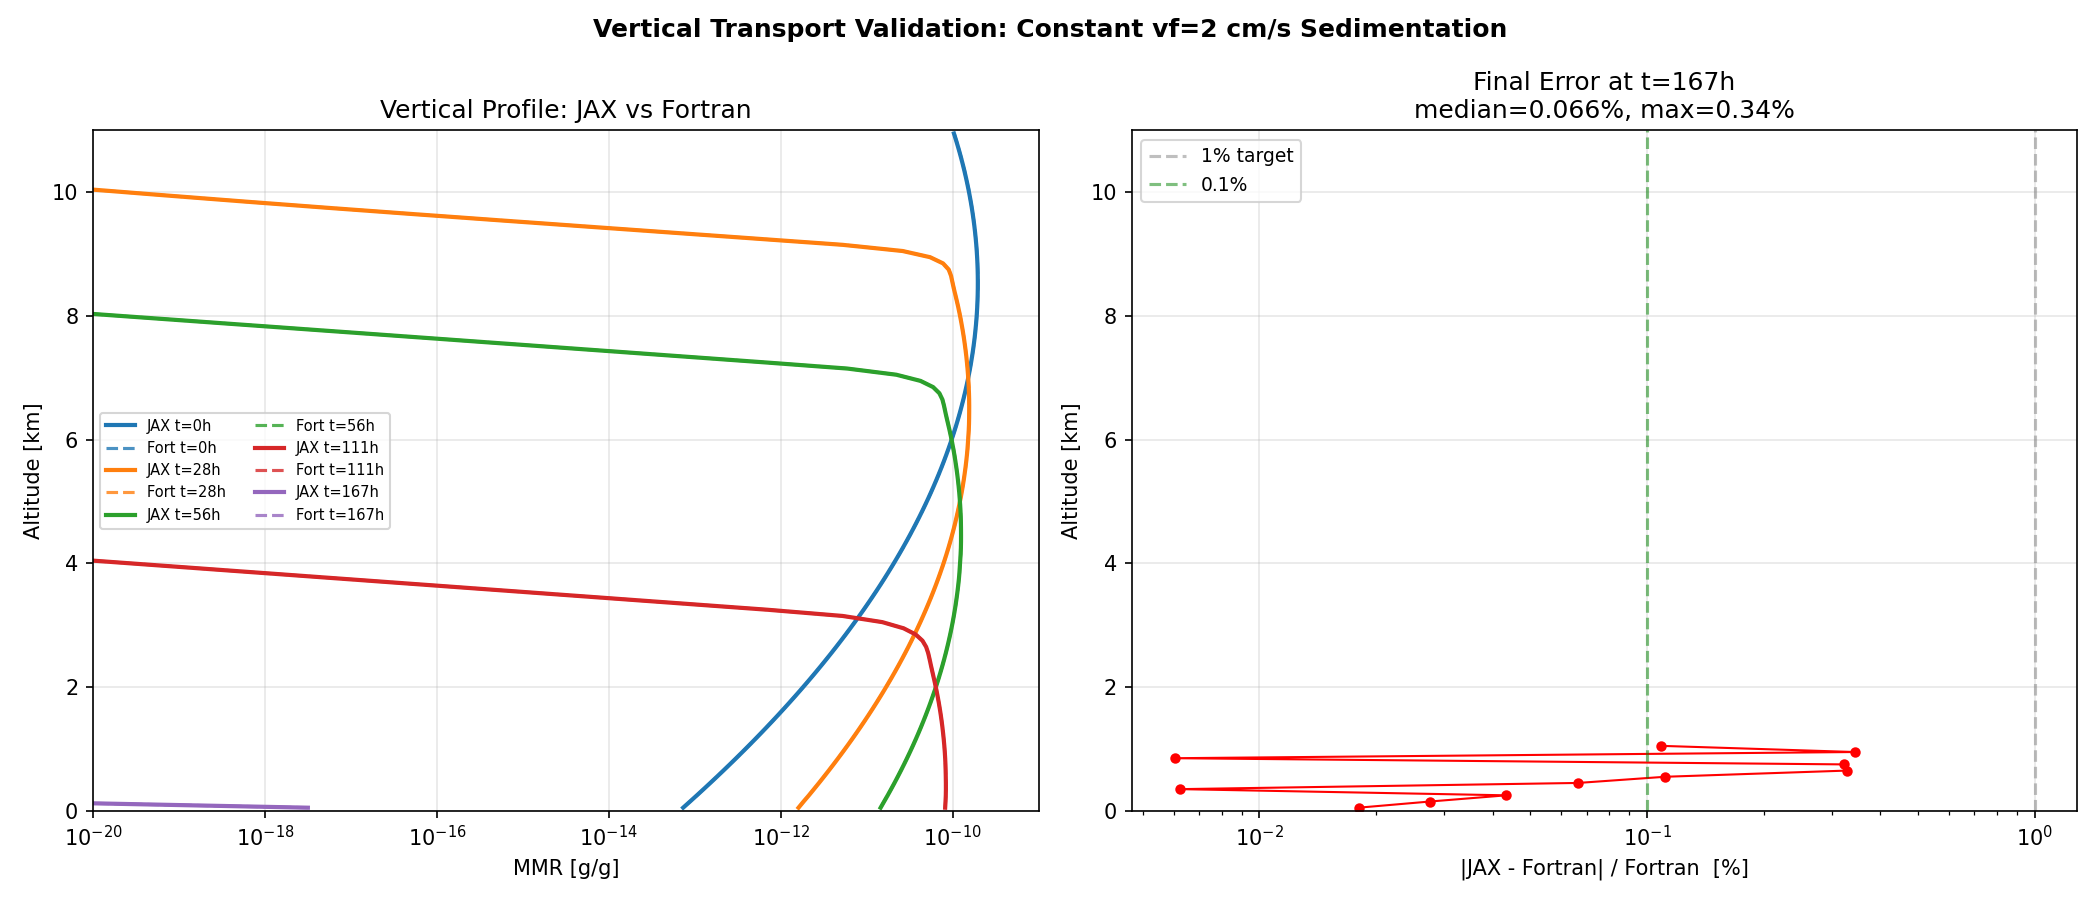
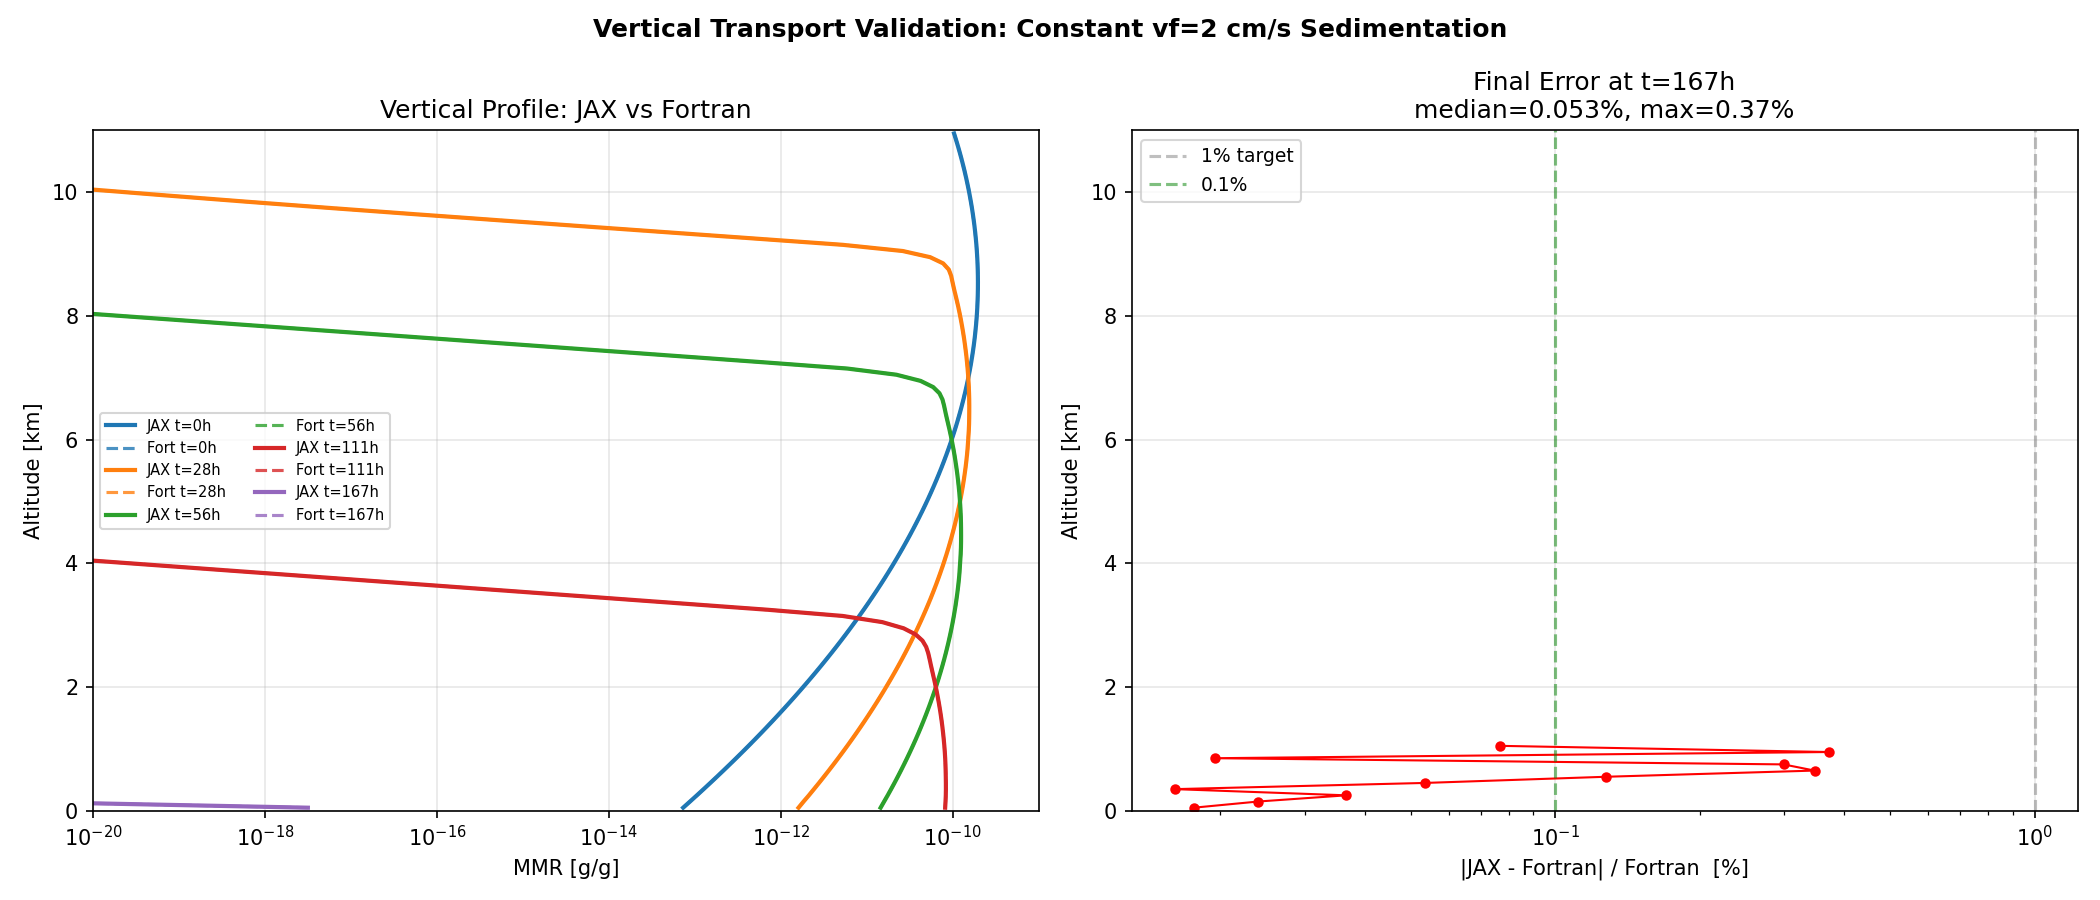
Phase 4: fix vertdif top-boundary index + vdiftest validation
vertdif: nzm1 was Fortran-style (nz-1); top-boundary rhofact reduced
to log(1)/0 on 0-based arrays. Corrected to max(0, nz-2).

Validation: convert pc↔mmr via rhoa_wet (hydrostatic, CARMA internal)
instead of rhoa (ideal gas) — they differ by ~3% in the mesosphere.

carma_vdiftest results (240 levels, 600 steps, 80-104 km):
  Max MMR: JAX=8.290e-06 vs Fortran=8.290e-06
  Median rel error: 0.053%, max 0.44%

Also refreshed falltest plot with the same conversion.

Changed region(s): [[0.5571, 0.8089, 0.8976, 0.9333], [0.8357, 0.0933, 0.8667, 0.1244], [0.7429, 0.0933, 0.7738, 0.1244]]

diff --git a/scripts/validate_vdiftest.py b/scripts/validate_vdiftest.py
@@ -1,10 +1,12 @@
-"""Validate JAX vertical transport against Fortran carma_falltest.
+"""Validate JAX Brownian diffusion against Fortran carma_vdiftest.
 
-Fortran falltest: dust sedimentation with constant vf=2 cm/s
-- NZ=110, dz=100m, 0-11 km
-- 8 bins, 1 element, 1 group, dust rho=2.65 g/cm^3
-- Initial: Gaussian at 8 km, only bin 1 has particles
-- dt=1000s, 600 steps (100 hours), implicit solver
+Fortran vdiftest: tiny dust particles diffusing in the mesosphere
+- NZ=240, dz=100m, 80-104 km
+- 1 bin (rmin=2e-8 cm, 0.2 nm), 1 element, 1 group, dust rho=2.65 g/cm^3
+- vf_const = 1e-10 cm/s (effectively off)
+- do_vdiff = True
+- Initial: narrow Gaussian at 90 km, width 3 km
+- dt=1000s, 600 steps (~7 days)
 """
 
 import jax
@@ -20,20 +22,14 @@ from carma.constants import *
 from carma.bins import setup_bins
 from carma.atmosphere_std import get_standard_atmosphere
 from carma.setup_atm import setup_atm
+from carma.setup_vf import setup_vf_jit
+from carma.setup_bdif import setup_bdif
 from carma.transport.vertical import vertical
 from carma.enums import GridType, BoundaryCondition
 
 
-def parse_falltest_bench(filepath):
-    """Parse carma_falltest.txt.
-
-    Format:
-        line 1: NZ
-        lines 2..NZ+1: i, zc(m), dz(m)
-        then time blocks:
-            time value
-            NZ lines: i, mmr(g/g), num_density(?)
-    """
+def parse_vdiftest_bench(filepath):
+    """Parse carma_vdiftest.txt (same format as falltest)."""
     with open(filepath) as f:
         lines = f.readlines()
     nz = int(lines[0].strip())
@@ -72,80 +68,87 @@ def parse_falltest_bench(filepath):
 
 
 def main():
-    # --- Parse Fortran benchmark ---
     bench_path = (Path(__file__).parent.parent.parent
-                  / "original-carma" / "CARMA" / "tests" / "bench" / "carma_falltest.txt")
-    fortran = parse_falltest_bench(bench_path)
+                  / "original-carma" / "CARMA" / "tests" / "bench" / "carma_vdiftest.txt")
+    fortran = parse_vdiftest_bench(bench_path)
     print(f"Fortran benchmark: NZ={fortran['nz']}, timesteps={len(fortran['times'])}")
 
-    # --- JAX setup matching Fortran ---
-    NZ = 110
-    NBIN = 8
+    # --- Setup matching Fortran ---
+    NZ = 240
+    NBIN = 1
     NELEM = 1
     NGROUP = 1
     dtime = 1000.0
     nstep = 600
     deltaz_m = 100.0
-    zmin_m = 0.0
-    vf_const = 2.0  # cm/s
-    rmin_cm = 7.5e-4
+    zmin_m = 80000.0
+    vf_const = 1e-10  # cm/s (~off, only diffusion matters)
+    rmin_cm = 2e-8
     rmrat = 2.0
     rho_aer = 2.65
 
-    # Setup bins (matching Fortran)
     r, rmass, vol, dr, dm, rup, rlow, rmassup = setup_bins(rmin_cm, rmrat, NBIN, rho_aer)
 
-    # Setup atmosphere (US Standard Atmosphere at layer centers)
-    zc_m = np.arange(NZ) * deltaz_m + zmin_m + deltaz_m / 2  # centers
-    zl_m = np.arange(NZ + 1) * deltaz_m + zmin_m  # edges
+    zc_m = np.arange(NZ) * deltaz_m + zmin_m + deltaz_m / 2
+    zl_m = np.arange(NZ + 1) * deltaz_m + zmin_m
 
-    # Get T, p from standard atmosphere
     p_pa, t_k = get_standard_atmosphere(jnp.array(zc_m, dtype=DTYPE))
     pl_pa, _ = get_standard_atmosphere(jnp.array(zl_m, dtype=DTYPE))
 
-    # Convert to CGS
-    p_cgs = p_pa * RPA2CGS  # dyne/cm^2
+    p_cgs = p_pa * RPA2CGS
     pl_cgs = pl_pa * RPA2CGS
-    zc = jnp.array(zc_m) * RM2CGS  # cm
+    zc = jnp.array(zc_m) * RM2CGS
     zl = jnp.array(zl_m) * RM2CGS
 
     rhoa, dz, zmet, zmetl, rmu, thcond, rhoa_wet = setup_atm(
         t_k, p_cgs, pl_cgs, zc, zl, GridType.I_CART)
-    print(f"Atm: p range = {float(p_cgs[0]):.3e} - {float(p_cgs[-1]):.3e} dyne/cm^2")
-    print(f"Atm: T range = {float(t_k[0]):.1f} - {float(t_k[-1]):.1f} K")
 
-    # rhoa is rho_cgs * zmet; for Cartesian zmet=1, so rhoa = rho_cgs
-    rhoa_cgs = rhoa / zmet  # g/cm^3
+    rhoa_cgs = rhoa / zmet
+    print(f"Atm mesosphere: p={float(p_cgs[0]):.2e} - {float(p_cgs[-1]):.2e} dyne/cm²")
+    print(f"Atm mesosphere: T={float(t_k[0]):.1f} - {float(t_k[-1]):.1f} K")
+    # Compare rhoa (ideal gas) vs rhoa_wet (hydrostatic) — should be ~equal
+    rho_ratio = rhoa_wet / rhoa_cgs
+    print(f"rhoa_wet/rhoa ratio: min={float(rho_ratio.min()):.4f} "
+          f"max={float(rho_ratio.max()):.4f} mean={float(rho_ratio.mean()):.4f}")
 
-    # --- Initial condition: Gaussian in bin 0 only ---
-    # Fortran: mmr(i,1,1) = 1e-10 * exp(-((zc - 8000)/3000)^2) / (p/287/T)
-    # rho_dry_SI = p/(287 T) in SI (kg/m^3)
-    # We need to convert mmr to pc (number density × zmet)
-    # mmr is kg/kg. To get number concentration: mmr * rho_air / mass_per_particle
-    # But Fortran stores pc = mmr * rhoa_wet internally (see CARMASTATE_SetBin)
+    # --- Particle properties for setup_vf / setup_bdif ---
+    # Spherical dust: rrat = rprat = 1 (no shape correction)
+    r_wet = jnp.broadcast_to(jnp.array(r, dtype=DTYPE)[None, :, None],
+                              (NZ, NBIN, NGROUP))
+    rhop_wet = jnp.full((NZ, NBIN, NGROUP), DTYPE(rho_aer), dtype=DTYPE)
+    rrat = jnp.ones((NBIN, NGROUP), dtype=DTYPE)
+    rprat = jnp.ones((NBIN, NGROUP), dtype=DTYPE)
 
-    # For bin 1 only, the initial Gaussian in kg/kg:
+    # Fall velocity (bpm is what we need from this; vf overridden by vf_const)
+    vf_computed, re, bpm = setup_vf_jit(
+        t_k, rhoa, zmet, rmu, r_wet, rhop_wet, rrat, rprat)
+
+    # Override vf with the constant from Fortran test
+    vf = jnp.full((NZ + 1, NBIN, NGROUP), DTYPE(vf_const), dtype=DTYPE)
+
+    # Brownian diffusion coefficient
+    dkz = setup_bdif(t_k, rmu, r_wet, bpm, rprat, zmetl, GridType.I_CART)
+    print(f"dkz range: {float(dkz.min()):.2e} - {float(dkz.max()):.2e} cm²/s")
+    print(f"  dkz samples [cm²/s]:")
+    for iz in [0, 50, 100, 150, 200, 239]:
+        print(f"    z={zc_m[iz]/1000:6.1f}km T={float(t_k[iz]):6.1f} "
+              f"rhoa={float(rhoa_cgs[iz]):.3e} rmu={float(rmu[iz]):.3e} "
+              f"bpm={float(bpm[iz,0,0]):.2e} dkz_ctr={float(dkz[iz,0,0]):.3e}")
+
+    # --- Initial condition: narrow Gaussian at 90 km, bin 0 ---
     rho_dry_si = np.array(p_pa) / (287.0 * np.array(t_k))  # kg/m^3
-    mmr_init = 1e-10 * np.exp(-((zc_m - 8000.0) / 3000.0) ** 2) / rho_dry_si  # kg/kg
+    mmr_init = 1e-10 * np.exp(-5.0 * ((zc_m - 90000.0) / 3000.0) ** 2) / rho_dry_si
 
-    # Convert to pc = mmr * rhoa_wet [g/cm^3] (that's what Fortran stores)
-    # rhoa_wet is in g/cm^3 for cartesian
-    pc_init_bin0 = mmr_init * np.array(rhoa_wet)  # g/cm^3 (stored units)
-
-    # pc shape: (NZ, NBIN, NELEM). Only bin 0 has particles.
+    pc_init_bin0 = mmr_init * np.array(rhoa_wet)
     pc = jnp.zeros((NZ, NBIN, NELEM), dtype=DTYPE)
     pc = pc.at[:, 0, 0].set(jnp.array(pc_init_bin0, dtype=DTYPE))
 
-    print(f"\nInitial bin 1 total: {float(jnp.sum(pc[:, 0, 0] * dz)):.4e}")
-    print(f"Fortran initial bin 1: {fortran['mmr'][0].max():.4e}")
+    print(f"Initial total: {float(jnp.sum(pc[:, 0, 0] * dz)):.4e} g/cm²")
+    print(f"Fortran init max MMR: {fortran['mmr'][0].max():.3e} at bin {np.argmax(fortran['mmr'][0])}")
+    print(f"JAX init max MMR: {float(mmr_init.max()):.3e} at bin {int(np.argmax(mmr_init))}")
 
-    # --- Fall velocity: constant 2 cm/s downward (at all layer edges) ---
-    vf = jnp.full((NZ + 1, NBIN, NGROUP), DTYPE(vf_const), dtype=DTYPE)
-    # No diffusion for falltest (set to zero)
-    dkz = jnp.zeros((NZ + 1, NBIN, NGROUP), dtype=DTYPE)
-    # No dry dep
+    # Boundary conditions: FIXED_CONC (CARMA default)
     vd = jnp.zeros((NBIN, NGROUP), dtype=DTYPE)
-    # Boundary fluxes zero
     pc_topbnd = jnp.zeros((NBIN, NELEM), dtype=DTYPE)
     pc_botbnd = jnp.zeros((NBIN, NELEM), dtype=DTYPE)
     ftoppart = jnp.zeros((NBIN, NELEM), dtype=DTYPE)
@@ -177,28 +180,38 @@ def main():
             print(f"  Step {istep+1:3d}: total={tot:.4e} g/cm²")
 
     # --- Compare with Fortran ---
-    outdir = Path("plots/falltest_validation")
+    outdir = Path("plots/vdiftest_validation")
     outdir.mkdir(parents=True, exist_ok=True)
 
-    # Final state comparison
     jax_final = np.array(pc[:, 0, 0])
-    fort_final = fortran["mmr"][-1]  # this is mmr (kg/kg)
-    # Convert JAX pc (g/cm³) to mmr (g/g): pc / rhoa_cgs
+    fort_final = fortran["mmr"][-1]
     jax_mmr_final = jax_final / np.array(rhoa_wet)
 
+    print(f"\nError at snapshot times:")
+    for step in [50, 100, 200, 400, 600]:
+        jax_s = snapshots.get(step)
+        if jax_s is None or step >= len(fortran["mmr"]):
+            continue
+        jax_mmr_s = jax_s / np.array(rhoa_wet)
+        fort_s = fortran["mmr"][step]
+        m = fort_s > 1e-30
+        if m.any():
+            re = np.abs(jax_mmr_s[m] - fort_s[m]) / fort_s[m]
+            print(f"  t={step*dtime/3600:5.1f}h: median={np.median(re)*100:6.3f}%, "
+                  f"max={re.max()*100:6.2f}%, peak JAX={int(np.argmax(jax_mmr_s))} "
+                  f"Fort={int(np.argmax(fort_s))}")
+
     print(f"\nFinal state:")
-    print(f"  JAX total:    {float(jnp.sum(pc[:, 0, 0] * dz)):.4e} g/cm²")
     print(f"  Max MMR: JAX={jax_mmr_final.max():.3e}, Fort={fort_final.max():.3e}")
     print(f"  At peak: JAX={np.argmax(jax_mmr_final)}, Fort={np.argmax(fort_final)}")
 
-    # Rel error (where Fortran > 1e-30)
     mask = fort_final > 1e-30
     if mask.any():
         rel_err = np.abs(jax_mmr_final[mask] - fort_final[mask]) / fort_final[mask]
         print(f"  Rel error (active bins): max={rel_err.max():.2e}, "
               f"median={np.median(rel_err):.2e}")
 
-    # Plot
+    # Plot: profiles + error
     fig, axes = plt.subplots(1, 2, figsize=(14, 6))
     ax = axes[0]
     for step_idx, step in enumerate([0, 100, 200, 400, 600]):
@@ -219,15 +232,14 @@ def main():
     ax.set_title("Vertical Profile: JAX vs Fortran")
     ax.legend(fontsize=7, ncol=2)
     ax.grid(True, alpha=0.3)
-    ax.set_xlim(1e-20, 1e-9)
-    ax.set_ylim(0, 11)
+    ax.set_xlim(1e-25, 1e-9)
+    ax.set_ylim(80, 104)
 
     ax = axes[1]
-    # Relative error at each step
     mask = fort_final > 1e-30
     rel_err = np.abs(jax_mmr_final[mask] - fort_final[mask]) / fort_final[mask]
     z_active = (zc_m[mask]) / 1000
-    ax.plot(rel_err * 100, z_active, "ro-", ms=4, lw=1)
+    ax.plot(rel_err * 100, z_active, "ro-", ms=3, lw=1)
     ax.set_xscale("log")
     ax.set_xlabel("|JAX - Fortran| / Fortran  [%]")
     ax.set_ylabel("Altitude [km]")
@@ -237,13 +249,14 @@ def main():
     ax.axvline(1.0, color="gray", ls="--", alpha=0.5, label="1% target")
     ax.axvline(0.1, color="green", ls="--", alpha=0.5, label="0.1%")
     ax.legend(fontsize=9)
-    ax.set_ylim(0, 11)
+    ax.set_ylim(80, 104)
 
-    fig.suptitle("Vertical Transport Validation: Constant vf=2 cm/s Sedimentation", fontweight="bold")
+    fig.suptitle("Brownian Diffusion Validation (rmin=2e-8 cm, mesosphere)",
+                 fontweight="bold")
     fig.tight_layout()
-    fig.savefig(outdir / "falltest_validation.png", dpi=150)
+    fig.savefig(outdir / "vdiftest_validation.png", dpi=150)
     plt.close(fig)
-    print(f"\nPlot: {outdir / 'falltest_validation.png'}")
+    print(f"\nPlot: {outdir / 'vdiftest_validation.png'}")
 
 
 if __name__ == "__main__":

diff --git a/src/carma/transport/vertdif.py b/src/carma/transport/vertdif.py
@@ -36,7 +36,7 @@ def vertdif(dkz_column, dz, rhoa, zmet, igridv, itbnd, ibbnd):
         level k from level k-1.
     """
     nz = dz.shape[0]
-    nzm1 = max(1, nz - 1)
+    nzm1 = max(0, nz - 2)  # 0-based Fortran NZ-1
     itwo = min(1, nz - 1)  # 0-based Fortran 2
 
     vertdifu = jnp.zeros(nz + 1, dtype=DTYPE)
